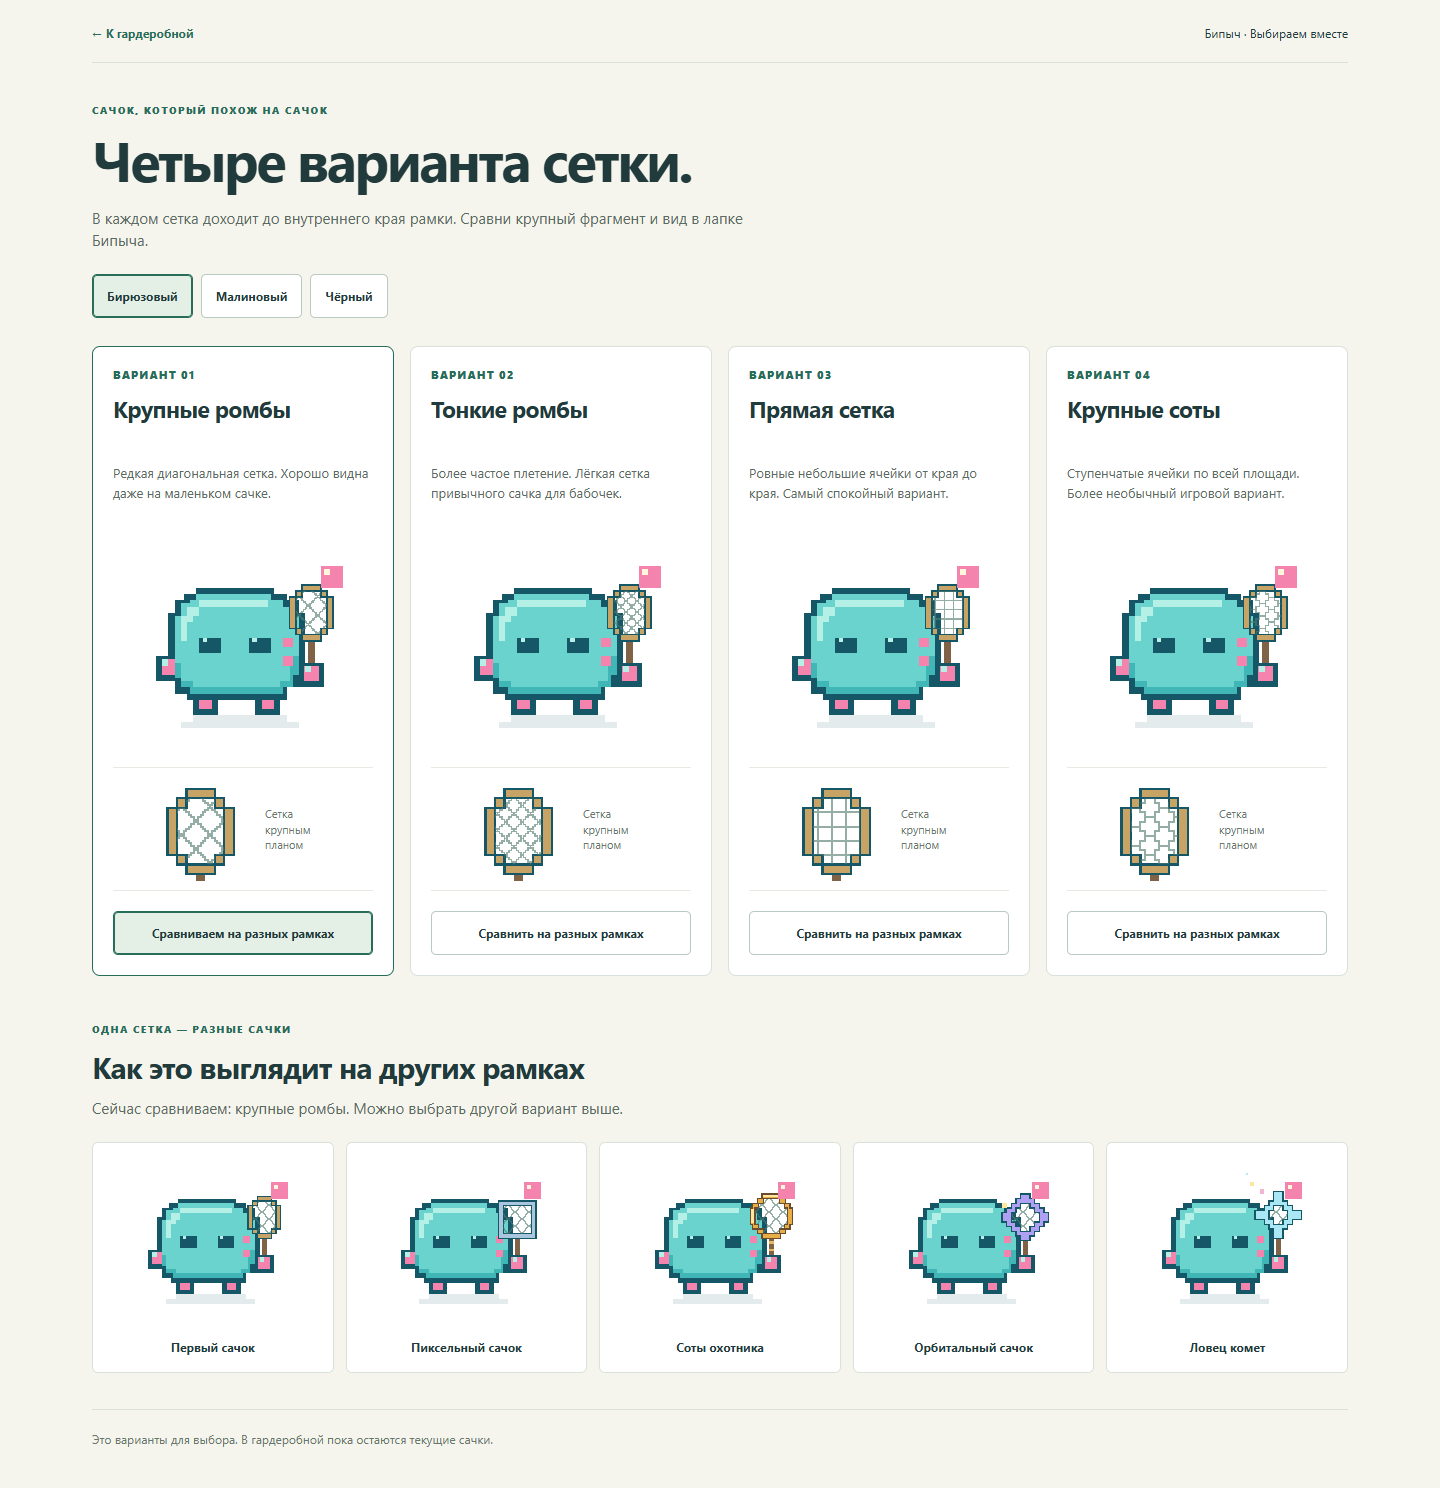
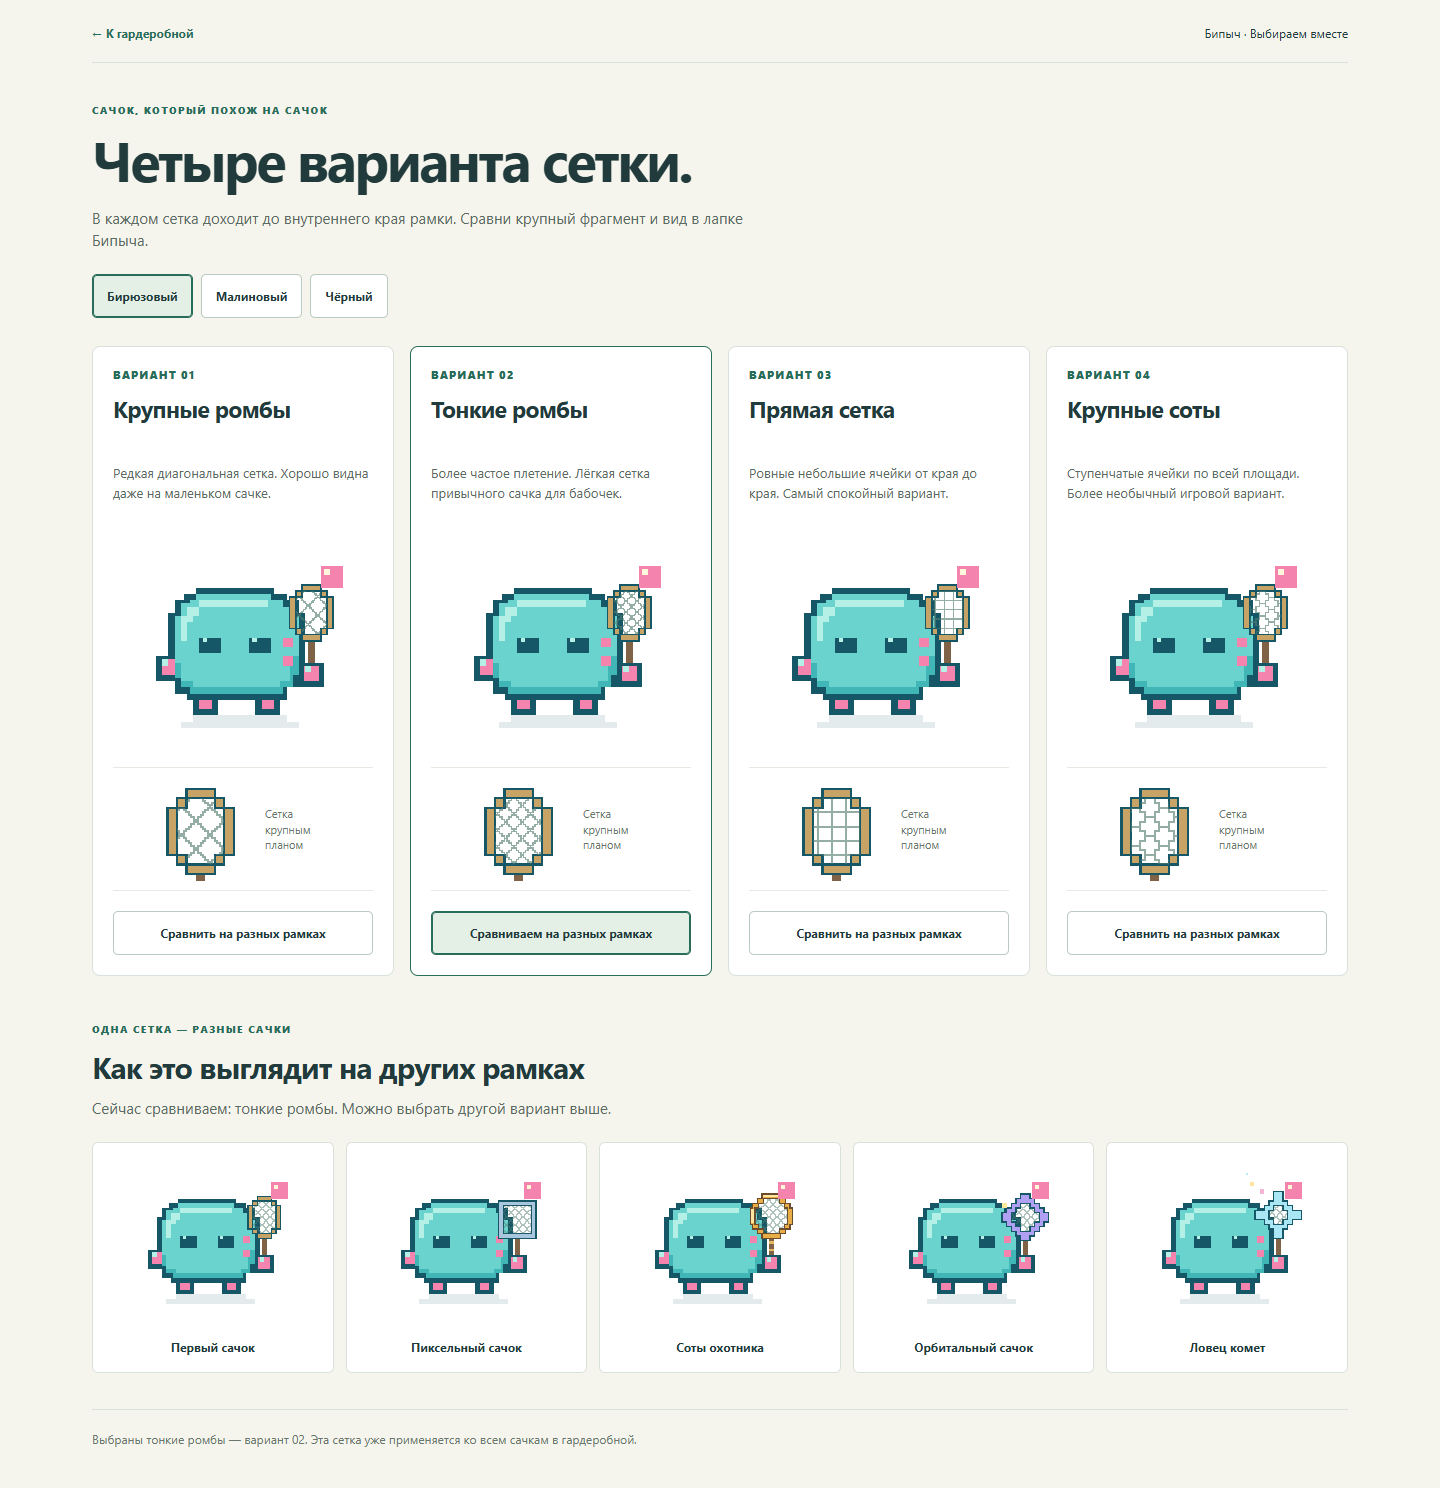
Apply selected fine diamond mesh across all mascot nets

diff --git a/content/drobik.js b/content/drobik.js
@@ -45,7 +45,7 @@
     ['hat-mushroom', 'hat', 'Мухомор-путешественник', 75, null, 'Лесная шляпка с крошечным светлячком.'],
     ['hat-arcade', 'hat', 'Аркадный шлем', 110, null, 'На макушке играет собственный пиксельный эквалайзер.'],
     ['net-orbit', 'net', 'Орбитальный сачок', 95, null, 'Ромбовидная рамка и крошечный спутник на орбите.'],
-    ['net-honey', 'net', 'Соты охотника', 80, null, 'Золотистая рамка, семь открытых сот и деревянная ручка.'],
+    ['net-honey', 'net', 'Соты охотника', 80, null, 'Золотистая рамка, тонкая ромбовая сетка и деревянная ручка.'],
     ['net-comet', 'net', 'Ловец комет', 0, 'ten-bugs', 'Сачок-звезда со следом из мерцающей звёздной пыли.']
   ].map(function (c) {
     return Object.freeze({ id: c[0], slot: c[1], name: c[2], price: c[3], unlock: c[4] || null, description: c[5] || '' });
@@ -61,6 +61,7 @@
   var NETS = ['#C8A366', '#6AD3B7', '#F483AD', '#82C5F0', '#E9C24A', '#B29CE8', '#A8C6DD', '#8DBA77', '#FFE58A', '#EAB1E5', '#AFA0F3', '#E9AD46', '#A9E7F4'];
   var OUTLINE = 'M42 34H92V38H100V42H108V50H112V90H108V98H100V106H36V102H28V94H24V50H28V42H34V38H42Z';
   var INSIDE = 'M42 38H90V42H98V46H104V52H108V88H104V96H98V102H38V98H32V92H28V52H32V44H38V42H42Z';
+  var NET_WEAVE = 'M0 0H1V1H2V2H3V3H4V4H5V5H6V6H7V7M7 0H6V1H5V2H4V3H3V4H2V5H1V6H0V7';
   var serial = 0;
 
   function shape(tag, attrs, children) {
@@ -114,28 +115,19 @@
     var netRim = squareNet
       ? 'M100 36H132V68H100ZM104 40H128V64H104Z'
       : 'M110 32H122V36H126V40H130V60H126V64H122V68H110V64H106V60H102V40H106V36H110ZM110 36H122V40H126V60H122V64H110V60H106V40H110Z';
-    var netMesh = squareNet
-      ? 'M112 40H113V64H112ZM119 40H120V64H119ZM108 46H124V47H108ZM108 57H124V58H108Z'
-      : 'M112 38H113V62H112ZM119 38H120V62H119ZM108 44H124V45H108ZM108 55H124V56H108Z';
     var netEffect = '';
     if (map.net === 'net-orbit') {
       netRim = 'M112 30H120V34H124V38H128V42H132V46H136V54H132V58H128V62H124V66H120V70H112V66H108V62H104V58H100V54H96V46H100V42H104V38H108V34H112ZM112 38H120V42H124V46H128V54H124V58H120V62H112V58H108V54H104V46H108V42H112Z';
-      netMesh = 'M112 42H113V58H112ZM119 42H120V58H119ZM108 46H124V47H108ZM108 54H124V55H108Z';
       netEffect = '<g class="bipych-orbit-mote">' + rect(96, 38, 4, 4, '#FFE79C') + '</g>';
     } else if (map.net === 'net-honey') {
       netRim = 'M108 30H124V34H128V38H132V42H134V56H132V60H128V64H124V68H108V64H104V60H100V56H98V42H100V38H104V34H108ZM109 34H123V38H127V42H130V56H127V60H123V64H109V60H105V56H102V42H105V38H109Z';
-      netMesh = [[112, 37], [106, 41], [118, 41], [112, 45], [106, 49], [118, 49], [112, 53]].map(function (xy) {
-        var x = xy[0], y = xy[1];
-        return 'M' + (x + 2) + ' ' + y + 'H' + (x + 6) + 'V' + (y + 2) + 'H' + (x + 8) + 'V' + (y + 6) +
-          'H' + (x + 6) + 'V' + (y + 8) + 'H' + (x + 2) + 'V' + (y + 6) + 'H' + x + 'V' + (y + 2) + 'H' + (x + 2) + 'Z';
-      }).join('');
       netEffect = path('M109 31H123V33H109ZM99 43H101V55H99Z', '#FFE6A1', 'bipych-honey-detail') +
         path('M114 70H118V73H114ZM114 77H118V79H114Z', '#E6B862');
     } else if (map.net === 'net-comet') {
       netRim = 'M112 28H120V36H124V40H128V44H136V52H128V56H124V60H120V68H112V60H108V56H104V52H96V44H104V40H108V36H112ZM112 40H120V44H124V52H120V56H112V52H108V44H112Z';
-      netMesh = 'M114 42H115V54H114ZM119 42H120V54H119ZM110 46H122V47H110ZM110 50H122V51H110Z';
       netEffect = '<g class="bipych-stardust">' + rect(100, 26, 4, 4, '#F4B5D4') + rect(92, 20, 3, 3, '#FFE59C') + rect(88, 12, 2, 2, '#B7EAF2') + '</g>';
     }
+    var netOpening = netRim.slice(netRim.lastIndexOf('M'));
     var satellite = map.antenna || (map.screen === 'screen-black' ? '' : 'pixel-sun');
     var limb = map.screen === 'screen-black' ? p[3] : p[4];
     var shyLimb = map.screen === 'screen-black' ? p[2] : limb;
@@ -151,6 +143,8 @@
     var sleeping = rect(44, 73, 14, 4, p[5]) + rect(76, 73, 14, 4, p[5]);
     var result = '<svg xmlns="http://www.w3.org/2000/svg" viewBox="0 0 144 144" class="bipych-svg" aria-hidden="true" focusable="false" shape-rendering="crispEdges">' +
       '<title id="' + uid + '">Бипыч</title>' +
+      '<defs><pattern id="' + uid + '-net-weave" x="30" y="22" width="7" height="7" patternUnits="userSpaceOnUse">' +
+      '<path d="' + NET_WEAVE + '" fill="none" stroke="#527D70" stroke-width=".65" opacity=".62"/></pattern></defs>' +
       '<g class="bipych-shadow">' + rect(32, 120, 76, 4, p[0]) + rect(40, 116, 60, 4, p[0]) + '</g>' +
       '<g class="bipych-actor">' +
       '<g class="bipych-foot bipych-foot-left">' + rect(40, 102, 16, 14, p[0]) + rect(44, 104, 8, 8, limb) + '</g>' +
@@ -170,7 +164,7 @@
       '<g class="bipych-net"' + (map.net ? ' data-equipped="true"' : '') + '>' +
       rect(114, 64, 4, 28, '#806247', 'bipych-net-handle') +
       '<path d="' + netRim + '" fill="' + netColor + '" fill-rule="evenodd" stroke="' + (map.net === 'net-honey' ? '#6B4B2C' : p[0]) + '" stroke-width="1" class="bipych-net-rim"/>' +
-      '<path d="' + netMesh + '" ' + (map.net === 'net-honey' ? 'fill="none" stroke="#8EAD9D" stroke-width=".75"' : 'fill="#6A9284"') + ' opacity=".65" class="bipych-net-mesh"/>' + netEffect + '</g>' +
+      '<path d="' + netOpening + '" fill="url(#' + uid + '-net-weave)" class="bipych-net-mesh"/>' + netEffect + '</g>' +
       rect(108, 82, 16, 16, p[0], 'bipych-grip') + rect(111, 84, 10, 10, limb) + rect(112, 84, 4, 4, p[2]) + '</g>' +
       '<g class="bipych-shy-hands"><g class="bipych-shy-hand-left">' + shyHand +
       '</g><g class="bipych-shy-hand-right"><g transform="translate(136 0) scale(-1 1)">' + shyHand + '</g></g></g>' +

diff --git a/assets/drobik/net-options.js b/assets/drobik/net-options.js
@@ -1,7 +1,7 @@
 (function () {
   'use strict';
   var lib = window.VEKTOR_DROBIK, NS = 'http://www.w3.org/2000/svg', serial = 0;
-  var color = 'screen-turquoise', selected = 'diamond', pets = [], framePets = [];
+  var color = 'screen-turquoise', selected = 'fine', pets = [], framePets = [];
   var variants = [
     { id: 'diamond', name: 'Крупные ромбы', description: 'Редкая диагональная сетка. Хорошо видна даже на маленьком сачке.' },
     { id: 'fine', name: 'Тонкие ромбы', description: 'Более частое плетение. Лёгкая сетка привычного сачка для бабочек.' },
@@ -44,6 +44,7 @@
   }
   function applyMesh(host, id) {
     var svg = host.querySelector('svg'), rim = svg.querySelector('.bipych-net-rim');
+    svg.querySelectorAll('defs').forEach(function (el) { el.remove(); });
     var old = svg.querySelector('.bipych-net-mesh'), d = rim.getAttribute('d');
     var clipId = 'net-choice-' + (++serial), defs = svgNode('defs', {});
     var clip = svgNode('clipPath', { id: clipId, clipPathUnits: 'userSpaceOnUse' });

diff --git a/assets/drobik/demo.js b/assets/drobik/demo.js
@@ -133,7 +133,8 @@
     } catch (e) { notice(e.message); }
   });
   syncOutfit(); renderWardrobe();
-  if (new URLSearchParams(location.search).get('wardrobe') === 'special') byId('wardrobe').querySelector('[data-slot=special]').click();
+  var requestedSlot = new URLSearchParams(location.search).get('wardrobe');
+  if (['special', 'screen', 'antenna', 'hat', 'net'].indexOf(requestedSlot) >= 0) byId('wardrobe').querySelector('[data-slot=' + requestedSlot + ']').click();
   byId('senior').addEventListener('change', function (e) { age = e.target.checked ? 'senior' : 'junior'; resetMain(); });
   byId('done').addEventListener('input', function (e) { done = Number(e.target.value); main.setCharge(done, goal); });
   byId('goal').addEventListener('change', function (e) {

diff --git a/assets/drobik/net-options.html b/assets/drobik/net-options.html
@@ -29,7 +29,7 @@
     <p id="family-description" class="lead" role="status" aria-live="polite"></p>
     <div id="frames" class="frames"></div>
   </section>
-  <footer>Это варианты для выбора. В гардеробной пока остаются текущие сачки.</footer>
+  <footer>Выбраны тонкие ромбы — вариант 02. Эта сетка уже применяется ко всем сачкам в гардеробной.</footer>
 </main>
 </body>
 </html>

diff --git a/tests/codex_visual.py b/tests/codex_visual.py
@@ -247,7 +247,13 @@ async def main():
             for(const c of VEKTOR_DROBIK.COSMETICS.filter(c=>c.slot==='net')){
                 contractPet.setCosmetics({screen:'screen-black',net:c.id});
                 const card=[...host.querySelectorAll('[data-item]')].find(el=>el.dataset.item===c.id);
-                if(!card || card.querySelector('.bipych-net').innerHTML!==document.querySelector('#contract-host .bipych-net').innerHTML){ok=false;break;}
+                const normalize=html=>html.replace(/bipych-[0-9]+-net-weave/g,'net-weave');
+                if(!card || normalize(card.querySelector('.bipych-net').innerHTML)!==normalize(document.querySelector('#contract-host .bipych-net').innerHTML)){ok=false;break;}
+                for(const svg of [card.querySelector('svg'),document.querySelector('#contract-host svg')]){
+                    const mesh=svg.querySelector('.bipych-net-mesh'),ref=mesh.getAttribute('fill').slice(5,-1);
+                    const pattern=document.getElementById(ref),rim=svg.querySelector('.bipych-net-rim').getAttribute('d');
+                    if(!pattern || pattern.closest('svg')!==svg || mesh.getAttribute('d')!==rim.slice(rim.lastIndexOf('M'))){ok=false;break;}
+                }
             }
             VEKTOR_COLLECTION.renderBugs(host,{bugs:[]});host.remove();return ok;
         }"""))

diff --git a/docs/art/HANDOFF.md b/docs/art/HANDOFF.md
@@ -17,6 +17,8 @@
 
 Последние указания владельца меняют внешний образ из исходного ТЗ: пиксельный Бипыч заменяет робота; антенны и круглого индикатора на животе нет. Цель дня показывается отдельной полоской. Совместимый идентификатор VEKTOR_DROBIK оставлен. Слот antenna используется для пикселя-спутника. У чёрного персонажа по умолчанию нет спутника, как на выбранном исходнике.
 
+Для всех 13 сачков владелец выбрал тонкую ромбовую сетку на всю внутреннюю область рамки. Она применяется в персонаже и карточках магазина. assets/drobik/net-options.html сохраняет сравнение вариантов; принятое решение и кадры — docs/art/net-options.
+
 Контракты функций не менялись. Модули не записывают учебный прогресс и не управляют реальными звёздами. Данные и обработчики передаёт приложение. Примеры используют отдельные подготовленные записи и пробные звёзды.
 
 ## Порядок подключения интегратором

diff --git a/docs/art/special-items/README.md b/docs/art/special-items/README.md
@@ -4,8 +4,9 @@
 мухомор, аркадный шлем, орбитальный сачок, сачок-соты и ловец комет.
 Формы нарисованы ступенями, без кривых, градиентов и растровых текстур.
 У семи вещей есть небольшие эффекты; сачок-соты отличается сеткой и рамкой.
-Сачок «Соты охотника» переработан: семь полых ступенчатых ячеек,
-тонкая сетка без заливки, золотистая рамка с тёплым контуром и бликами.
+Сачок «Соты охотника» имеет золотистую рамку с тёплым контуром и бликами.
+По выбору владельца у него, как и у остальных сачков, тонкая ромбовая
+сетка на всю внутреннюю область рамки.
 
 Шляпа мага — награда topic-master, ловец комет — ten-bugs. Остальные
 доступны за пробные звёзды в демо. Реальную выдачу наград выполняет ядро
